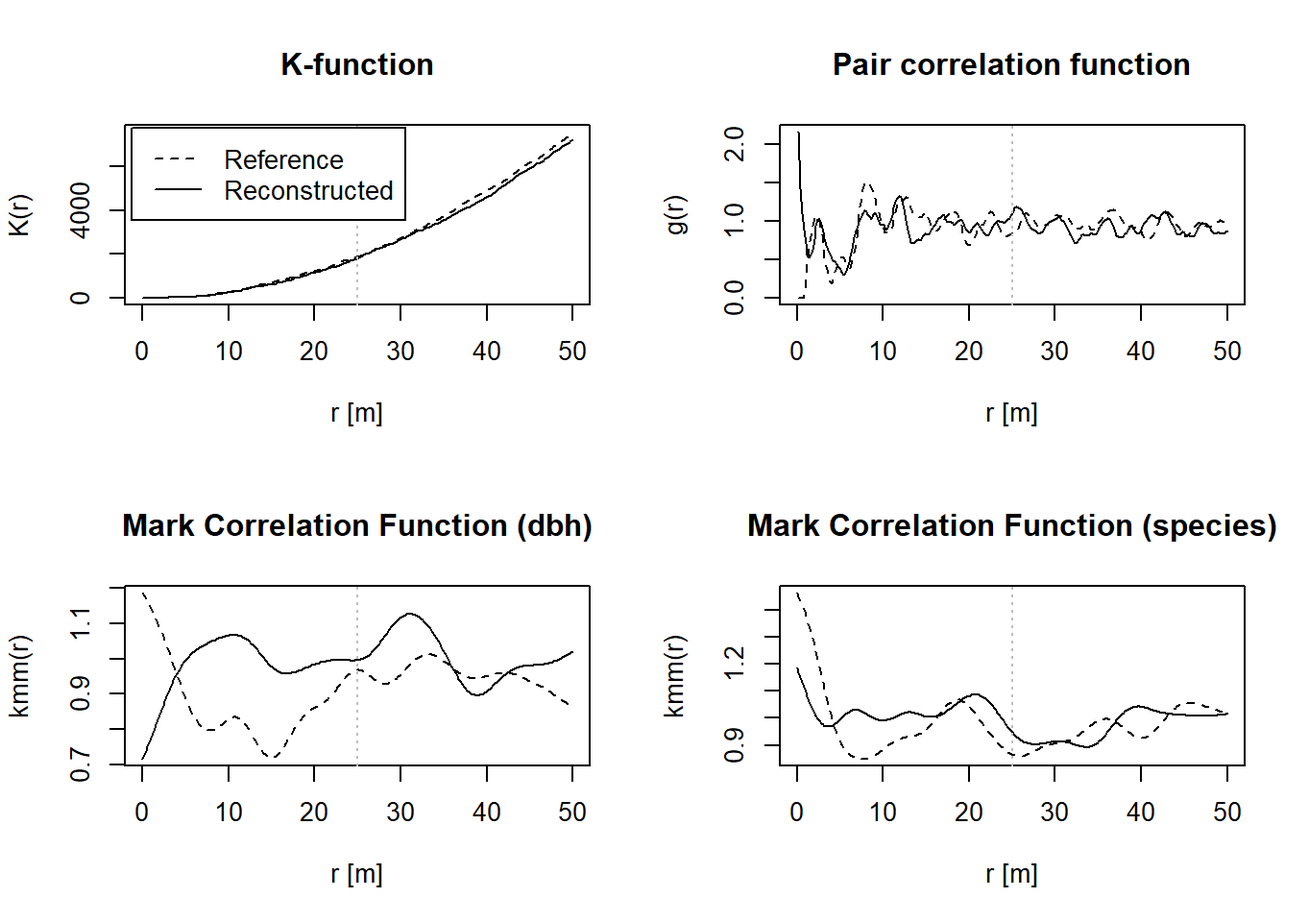
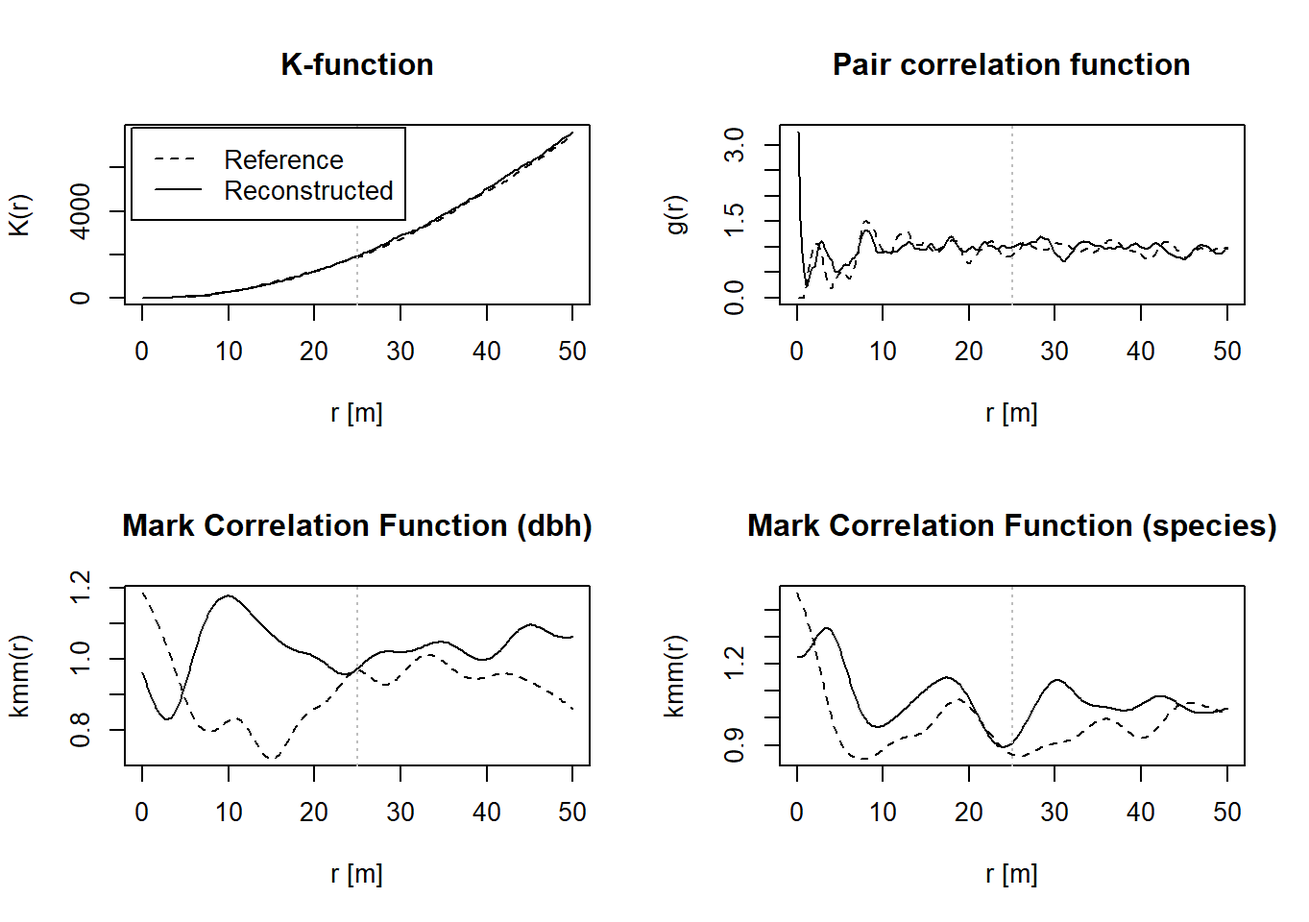
implementation of the new setp function

diff --git a/docs/simple_application_example.html b/docs/simple_application_example.html
@@ -208,15 +208,14 @@ pre > code.sourceCode > span > a:first-child::before { text-decoration: underlin
 
 <p>The following example demonstrates a simple application of <strong>M</strong>ulti-<strong>T</strong>rait <strong>P</strong>oint <strong>P</strong>attern <strong>R</strong>econstruction (MTPPR) presented in Wudel et al.&nbsp;(2023). It illustrates reconstruction using fictitious datasets that incorporate multiple traits simultaneously. The required libraries must be loaded beforehand.</p>
 <div class="cell">
-<div class="sourceCode cell-code" id="cb1"><pre class="sourceCode r code-with-copy"><code class="sourceCode r"><span id="cb1-1"><a href="#cb1-1" aria-hidden="true" tabindex="-1"></a><span class="fu">source</span>(<span class="st">"https://raw.githubusercontent.com/ChrisWudel/Multi-trait-point-pattern-reconstruction/main/func/reconstruct_pattern_multi.R"</span>)</span>
-<span id="cb1-2"><a href="#cb1-2" aria-hidden="true" tabindex="-1"></a><span class="fu">source</span>(<span class="st">"https://raw.githubusercontent.com/ChrisWudel/Multi-trait-point-pattern-reconstruction/main/func/compute_statistics.R"</span>)</span>
-<span id="cb1-3"><a href="#cb1-3" aria-hidden="true" tabindex="-1"></a><span class="fu">source</span>(<span class="st">"https://raw.githubusercontent.com/ChrisWudel/Multi-trait-point-pattern-reconstruction/main/func/dummy_transf.R"</span>)</span>
-<span id="cb1-4"><a href="#cb1-4" aria-hidden="true" tabindex="-1"></a><span class="fu">source</span>(<span class="st">"https://raw.githubusercontent.com/ChrisWudel/Multi-trait-point-pattern-reconstruction/main/func/energy_fun.R"</span>)</span>
-<span id="cb1-5"><a href="#cb1-5" aria-hidden="true" tabindex="-1"></a><span class="fu">source</span>(<span class="st">"https://raw.githubusercontent.com/ChrisWudel/Multi-trait-point-pattern-reconstruction/main/func/calc_moments.R"</span>)</span>
-<span id="cb1-6"><a href="#cb1-6" aria-hidden="true" tabindex="-1"></a><span class="fu">source</span>(<span class="st">"https://raw.githubusercontent.com/ChrisWudel/Multi-trait-point-pattern-reconstruction/main/func/select_kernel.R"</span>)</span>
-<span id="cb1-7"><a href="#cb1-7" aria-hidden="true" tabindex="-1"></a><span class="fu">source</span>(<span class="st">"https://raw.githubusercontent.com/ChrisWudel/Multi-trait-point-pattern-reconstruction/main/func/plot.rd_multi.R"</span>)</span>
-<span id="cb1-8"><a href="#cb1-8" aria-hidden="true" tabindex="-1"></a><span class="fu">source</span>(<span class="st">"https://raw.githubusercontent.com/ChrisWudel/Multi-trait-point-pattern-reconstruction/main/func/sample_points.R"</span>)</span>
-<span id="cb1-9"><a href="#cb1-9" aria-hidden="true" tabindex="-1"></a><span class="fu">library</span>(spatstat)</span></code><button title="Copy to Clipboard" class="code-copy-button"><i class="bi"></i></button></pre></div>
+<div class="sourceCode cell-code" id="cb1"><pre class="sourceCode r code-with-copy"><code class="sourceCode r"><span id="cb1-1"><a href="#cb1-1" aria-hidden="true" tabindex="-1"></a><span class="fu">source</span>(<span class="st">"https://raw.githubusercontent.com/ChrisWudel/Multi-trait-point-pattern-reconstruction/main/func/setup.R"</span>)</span>
+<span id="cb1-2"><a href="#cb1-2" aria-hidden="true" tabindex="-1"></a></span>
+<span id="cb1-3"><a href="#cb1-3" aria-hidden="true" tabindex="-1"></a><span class="fu">setup</span>(</span>
+<span id="cb1-4"><a href="#cb1-4" aria-hidden="true" tabindex="-1"></a>  <span class="at">packages =</span> <span class="fu">c</span>(<span class="st">"spatstat"</span>),</span>
+<span id="cb1-5"><a href="#cb1-5" aria-hidden="true" tabindex="-1"></a>  <span class="at">func_names =</span> <span class="fu">c</span>(<span class="st">"reconstruct_pattern_multi"</span>, <span class="st">"compute_statistics"</span>,</span>
+<span id="cb1-6"><a href="#cb1-6" aria-hidden="true" tabindex="-1"></a>                 <span class="st">"dummy_transf"</span>, <span class="st">"energy_fun"</span>, <span class="st">"calc_moments"</span>, <span class="st">"select_kernel"</span>, </span>
+<span id="cb1-7"><a href="#cb1-7" aria-hidden="true" tabindex="-1"></a>                 <span class="st">"plot.rd_multi"</span>, <span class="st">"sample_points"</span>)</span>
+<span id="cb1-8"><a href="#cb1-8" aria-hidden="true" tabindex="-1"></a>  )</span></code><button title="Copy to Clipboard" class="code-copy-button"><i class="bi"></i></button></pre></div>
 </div>
 <p>Please note that the maximum number of iterations has been set to <em>max_steps = 10000</em> and <em>n_repetitions = 3</em> in this example to keep computation time low. No weighting of different summary statistics has been performed, which may be necessary for different applications (e.g., forest stands) to achieve optimal results. For real-world applications, it is advisable to adjust these parameters accordingly. Additionally, in the vignette, <em>verbose = FALSE</em> has been set to minimize print output. We recommend using the default setting verbose = TRUE when running the code to see progress reports.</p>
 <p>The next step is to load the point pattern, here is an example of a random point pattern with several marks to show the structure of the data used.</p>
@@ -236,9 +235,9 @@ pre > code.sourceCode > span > a:first-child::before { text-decoration: underlin
 <div class="sourceCode cell-code" id="cb3"><pre class="sourceCode r code-with-copy"><code class="sourceCode r"><span id="cb3-1"><a href="#cb3-1" aria-hidden="true" tabindex="-1"></a>reconstruction <span class="ot">&lt;-</span> <span class="fu">reconstruct_pattern_multi</span>(marked_pattern, <span class="at">n_repetitions =</span> <span class="dv">1</span>, <span class="at">max_steps =</span> <span class="dv">10000</span>, <span class="at">issue =</span> <span class="dv">5000</span>, <span class="at">verbose =</span> <span class="cn">TRUE</span>)</span></code><button title="Copy to Clipboard" class="code-copy-button"><i class="bi"></i></button></pre></div>
 <div class="cell-output cell-output-stderr">
 <pre><code>
-&gt; Progress:  || iterations: 0 || Simulation progress: 0% || energy = 0.0895 || energy improvement = 0
-&gt; Progress:  || iterations: 5000 || Simulation progress: 50% || energy = 0.00138 || energy improvement = 298
-&gt; Progress:  || iterations: 10000 || Simulation progress: 100% || energy = 0.00135 || energy improvement = 477</code></pre>
+&gt; Progress:  || iterations: 0 || Simulation progress: 0% || energy = 0.10793 || energy improvement = 0
+&gt; Progress:  || iterations: 5000 || Simulation progress: 50% || energy = 0.00076 || energy improvement = 357
+&gt; Progress:  || iterations: 10000 || Simulation progress: 100% || energy = 0.00072 || energy improvement = 530</code></pre>
 </div>
 </div>
 <p>As a result, you will receive a list containing a variety of information, for example, the reference pattern, the reconstructed pattern, the number of successful actions, the energy development and much more. If you wish to perform several reconstructions of the same reference pattern, you must increase n_repetitions to the desired number.</p>
@@ -246,14 +245,14 @@ pre > code.sourceCode > span > a:first-child::before { text-decoration: underlin
 <div class="sourceCode cell-code" id="cb5"><pre class="sourceCode r code-with-copy"><code class="sourceCode r"><span id="cb5-1"><a href="#cb5-1" aria-hidden="true" tabindex="-1"></a>reconstruction_2 <span class="ot">&lt;-</span> <span class="fu">reconstruct_pattern_multi</span>(marked_pattern, <span class="at">n_repetitions =</span> <span class="dv">2</span>, <span class="at">max_steps =</span> <span class="dv">10000</span>, <span class="at">issue =</span> <span class="dv">5000</span>, <span class="at">verbose =</span> <span class="cn">TRUE</span>)</span></code><button title="Copy to Clipboard" class="code-copy-button"><i class="bi"></i></button></pre></div>
 <div class="cell-output cell-output-stderr">
 <pre><code>
-&gt; Progress: reconstruction_1 || iterations: 0 || Simulation progress: 0% || energy = 0.13654 || energy improvement = 0
-&gt; Progress: reconstruction_1 || iterations: 5000 || Simulation progress: 50% || energy = 0.00171 || energy improvement = 326
-&gt; Progress: reconstruction_1 || iterations: 10000 || Simulation progress: 100% || energy = 0.00167 || energy improvement = 520
+&gt; Progress: reconstruction_1 || iterations: 0 || Simulation progress: 0% || energy = 0.19684 || energy improvement = 0
+&gt; Progress: reconstruction_1 || iterations: 5000 || Simulation progress: 50% || energy = 0.00134 || energy improvement = 351
+&gt; Progress: reconstruction_1 || iterations: 10000 || Simulation progress: 100% || energy = 0.00129 || energy improvement = 512
 
 
-&gt; Progress: reconstruction_2 || iterations: 0 || Simulation progress: 0% || energy = 0.11497 || energy improvement = 0
-&gt; Progress: reconstruction_2 || iterations: 5000 || Simulation progress: 50% || energy = 0.00215 || energy improvement = 331
-&gt; Progress: reconstruction_2 || iterations: 10000 || Simulation progress: 100% || energy = 0.00211 || energy improvement = 512</code></pre>
+&gt; Progress: reconstruction_2 || iterations: 0 || Simulation progress: 0% || energy = 0.10089 || energy improvement = 0
+&gt; Progress: reconstruction_2 || iterations: 5000 || Simulation progress: 50% || energy = 0.002 || energy improvement = 313
+&gt; Progress: reconstruction_2 || iterations: 10000 || Simulation progress: 100% || energy = 0.00196 || energy improvement = 484</code></pre>
 </div>
 </div>
 <p>To activate a visualisation of the reconstruction that shows the changes in the pattern at the relevant time, you must proceed as follows.</p>
@@ -261,9 +260,9 @@ pre > code.sourceCode > span > a:first-child::before { text-decoration: underlin
 <div class="sourceCode cell-code" id="cb7"><pre class="sourceCode r code-with-copy"><code class="sourceCode r"><span id="cb7-1"><a href="#cb7-1" aria-hidden="true" tabindex="-1"></a>reconstruction_3 <span class="ot">&lt;-</span> <span class="fu">reconstruct_pattern_multi</span>(marked_pattern, <span class="at">n_repetitions =</span> <span class="dv">1</span>, <span class="at">max_steps =</span> <span class="dv">10000</span>, <span class="at">show_graphic =</span> <span class="cn">TRUE</span>, <span class="at">issue =</span> <span class="dv">5000</span>, <span class="at">verbose =</span> <span class="cn">TRUE</span>) </span></code><button title="Copy to Clipboard" class="code-copy-button"><i class="bi"></i></button></pre></div>
 <div class="cell-output cell-output-stderr">
 <pre><code>
-&gt; Progress:  || iterations: 0 || Simulation progress: 0% || energy = 0.08328 || energy improvement = 0
-&gt; Progress:  || iterations: 5000 || Simulation progress: 50% || energy = 0.00099 || energy improvement = 308
-&gt; Progress:  || iterations: 10000 || Simulation progress: 100% || energy = 0.00094 || energy improvement = 511</code></pre>
+&gt; Progress:  || iterations: 0 || Simulation progress: 0% || energy = 0.0563 || energy improvement = 0
+&gt; Progress:  || iterations: 5000 || Simulation progress: 50% || energy = 0.00295 || energy improvement = 339
+&gt; Progress:  || iterations: 10000 || Simulation progress: 100% || energy = 0.00291 || energy improvement = 534</code></pre>
 </div>
 <div class="cell-output-display">
 <div>

diff --git a/docs/further_application_examples.html b/docs/further_application_examples.html
@@ -209,21 +209,14 @@ pre > code.sourceCode > span > a:first-child::before { text-decoration: underlin
 <p>In the following, further examples of the simple application of <strong>M</strong>ulti-<strong>T</strong>rait <strong>P</strong>oint <strong>P</strong>attern <strong>R</strong>econstruction (MTPPR) presented in Wudel et al.&nbsp;(2023) are presented. These are standard applications, meaning that reconstructions are performed without enlargements or reductions of the reconstruction pattern and without edge correction.</p>
 <p>First, the necessary functions and packages will be loaded. If individual R packages are not installed, install them as follows: <code>install.packages("package name")</code>.</p>
 <div class="cell">
-<div class="sourceCode cell-code" id="cb1"><pre class="sourceCode r code-with-copy"><code class="sourceCode r"><span id="cb1-1"><a href="#cb1-1" aria-hidden="true" tabindex="-1"></a><span class="fu">source</span>(<span class="st">"https://raw.githubusercontent.com/ChrisWudel/Multi-trait-point-pattern-reconstruction/main/func/reconstruct_pattern_multi.R"</span>)</span>
-<span id="cb1-2"><a href="#cb1-2" aria-hidden="true" tabindex="-1"></a><span class="fu">source</span>(<span class="st">"https://raw.githubusercontent.com/ChrisWudel/Multi-trait-point-pattern-reconstruction/main/func/compute_statistics.R"</span>)</span>
-<span id="cb1-3"><a href="#cb1-3" aria-hidden="true" tabindex="-1"></a><span class="fu">source</span>(<span class="st">"https://raw.githubusercontent.com/ChrisWudel/Multi-trait-point-pattern-reconstruction/main/func/dummy_transf.R"</span>)</span>
-<span id="cb1-4"><a href="#cb1-4" aria-hidden="true" tabindex="-1"></a><span class="fu">source</span>(<span class="st">"https://raw.githubusercontent.com/ChrisWudel/Multi-trait-point-pattern-reconstruction/main/func/energy_fun.R"</span>)</span>
-<span id="cb1-5"><a href="#cb1-5" aria-hidden="true" tabindex="-1"></a><span class="fu">source</span>(<span class="st">"https://raw.githubusercontent.com/ChrisWudel/Multi-trait-point-pattern-reconstruction/main/func/calc_moments.R"</span>)</span>
-<span id="cb1-6"><a href="#cb1-6" aria-hidden="true" tabindex="-1"></a><span class="fu">source</span>(<span class="st">"https://raw.githubusercontent.com/ChrisWudel/Multi-trait-point-pattern-reconstruction/main/func/select_kernel.R"</span>)</span>
-<span id="cb1-7"><a href="#cb1-7" aria-hidden="true" tabindex="-1"></a><span class="fu">source</span>(<span class="st">"https://raw.githubusercontent.com/ChrisWudel/Multi-trait-point-pattern-reconstruction/main/func/plot.rd_multi.R"</span>)</span>
-<span id="cb1-8"><a href="#cb1-8" aria-hidden="true" tabindex="-1"></a><span class="fu">source</span>(<span class="st">"https://raw.githubusercontent.com/ChrisWudel/Multi-trait-point-pattern-reconstruction/main/func/sample_points.R"</span>)</span>
-<span id="cb1-9"><a href="#cb1-9" aria-hidden="true" tabindex="-1"></a></span>
-<span id="cb1-10"><a href="#cb1-10" aria-hidden="true" tabindex="-1"></a><span class="fu">source</span>(<span class="st">"https://raw.githubusercontent.com/ChrisWudel/Multi-trait-point-pattern-reconstruction/main/func/vis_patterns.R"</span>)</span>
-<span id="cb1-11"><a href="#cb1-11" aria-hidden="true" tabindex="-1"></a><span class="fu">source</span>(<span class="st">"https://raw.githubusercontent.com/ChrisWudel/Multi-trait-point-pattern-reconstruction/main/func/select_data.R"</span>)</span>
-<span id="cb1-12"><a href="#cb1-12" aria-hidden="true" tabindex="-1"></a></span>
-<span id="cb1-13"><a href="#cb1-13" aria-hidden="true" tabindex="-1"></a><span class="fu">library</span>(spatstat)</span>
-<span id="cb1-14"><a href="#cb1-14" aria-hidden="true" tabindex="-1"></a><span class="fu">library</span>(ggplot2)</span>
-<span id="cb1-15"><a href="#cb1-15" aria-hidden="true" tabindex="-1"></a><span class="fu">library</span>(patchwork)</span></code><button title="Copy to Clipboard" class="code-copy-button"><i class="bi"></i></button></pre></div>
+<div class="sourceCode cell-code" id="cb1"><pre class="sourceCode r code-with-copy"><code class="sourceCode r"><span id="cb1-1"><a href="#cb1-1" aria-hidden="true" tabindex="-1"></a><span class="fu">source</span>(<span class="st">"https://raw.githubusercontent.com/ChrisWudel/Multi-trait-point-pattern-reconstruction/main/func/setup.R"</span>)</span>
+<span id="cb1-2"><a href="#cb1-2" aria-hidden="true" tabindex="-1"></a></span>
+<span id="cb1-3"><a href="#cb1-3" aria-hidden="true" tabindex="-1"></a><span class="fu">setup</span>(</span>
+<span id="cb1-4"><a href="#cb1-4" aria-hidden="true" tabindex="-1"></a>  <span class="at">packages =</span> <span class="fu">c</span>(<span class="st">"spatstat"</span>, <span class="st">"ggplot2"</span>, <span class="st">"patchwork"</span>),</span>
+<span id="cb1-5"><a href="#cb1-5" aria-hidden="true" tabindex="-1"></a>  <span class="at">func_names =</span> <span class="fu">c</span>(<span class="st">"reconstruct_pattern_multi"</span>, <span class="st">"compute_statistics"</span>,</span>
+<span id="cb1-6"><a href="#cb1-6" aria-hidden="true" tabindex="-1"></a>                 <span class="st">"dummy_transf"</span>, <span class="st">"energy_fun"</span>, <span class="st">"calc_moments"</span>, <span class="st">"select_kernel"</span>, </span>
+<span id="cb1-7"><a href="#cb1-7" aria-hidden="true" tabindex="-1"></a>                 <span class="st">"plot.rd_multi"</span>, <span class="st">"sample_points"</span>, <span class="st">"vis_patterns"</span>, <span class="st">"select_data"</span>)</span>
+<span id="cb1-8"><a href="#cb1-8" aria-hidden="true" tabindex="-1"></a>  )</span></code><button title="Copy to Clipboard" class="code-copy-button"><i class="bi"></i></button></pre></div>
 </div>
 <p>Now you need to define which dataset you want to use. There are 2 real datasets and 4 generated datasets available. To select a dataset, define <em>x</em> with the name of the dataset you want to use (<em>x &lt;- ‘Dataset Name’</em>). The datasets are available under ’Records for download.</p>
 <div class="cell">
@@ -276,6 +269,9 @@ pre > code.sourceCode > span > a:first-child::before { text-decoration: underlin
 <p>As a result, you will receive a list with a variety of information, such as the reference pattern, the reconstructed pattern, the number of successful actions, the energy development, and much more. To illustrate the results, first compare the reference pattern with the reconstructed pattern.</p>
 <div class="cell">
 <div class="sourceCode cell-code" id="cb4"><pre class="sourceCode r code-with-copy"><code class="sourceCode r"><span id="cb4-1"><a href="#cb4-1" aria-hidden="true" tabindex="-1"></a><span class="fu">vis_pp</span>(reconstruction) </span></code><button title="Copy to Clipboard" class="code-copy-button"><i class="bi"></i></button></pre></div>
+<div class="cell-output cell-output-stdout">
+<pre><code>[1] "look under Plots to see the result."</code></pre>
+</div>
 <div class="cell-output-display">
 <div>
 <figure class="figure">
@@ -286,7 +282,7 @@ pre > code.sourceCode > span > a:first-child::before { text-decoration: underlin
 </div>
 <p>Finally, you can use the following function to compare various summary statistics of the reference pattern (black line) with the reconstructed pattern (grey line). Another function (plot_sum_stat) is capable of displaying these summary statistics in a single diagram for multiple repetitions of the reconstructions (n_repetitions &gt; 1), and it is used in the previously mentioned application file (Application of the Multi-trait Point pattern reconstruction.R). For simplicity, this functionality has been omitted here.</p>
 <div class="cell">
-<div class="sourceCode cell-code" id="cb5"><pre class="sourceCode r code-with-copy"><code class="sourceCode r"><span id="cb5-1"><a href="#cb5-1" aria-hidden="true" tabindex="-1"></a><span class="fu">plot</span>(reconstruction)</span></code><button title="Copy to Clipboard" class="code-copy-button"><i class="bi"></i></button></pre></div>
+<div class="sourceCode cell-code" id="cb6"><pre class="sourceCode r code-with-copy"><code class="sourceCode r"><span id="cb6-1"><a href="#cb6-1" aria-hidden="true" tabindex="-1"></a><span class="fu">plot</span>(reconstruction)</span></code><button title="Copy to Clipboard" class="code-copy-button"><i class="bi"></i></button></pre></div>
 <div class="cell-output-display">
 <div>
 <figure class="figure">

diff --git a/docs/specialized_application.html b/docs/specialized_application.html
@@ -211,20 +211,14 @@ pre > code.sourceCode > span > a:first-child::before { text-decoration: underlin
 <p><em><strong>Figure:</strong> Conceptual presentation of the new innovative workflow for data acquisition and reconstruction of forest regeneration (LiDAR = Light Detection and Ranging). a) Recording regeneration on a small area and b) recording of the upper stand trees at the whole forest area.</em></p>
 <p>The following code can be used to execute the workflow using an available dataset. First, the necessary functions and packages are loaded.</p>
 <div class="cell">
-<div class="sourceCode cell-code" id="cb1"><pre class="sourceCode r code-with-copy"><code class="sourceCode r"><span id="cb1-1"><a href="#cb1-1" aria-hidden="true" tabindex="-1"></a><span class="fu">source</span>(<span class="st">"https://raw.githubusercontent.com/ChrisWudel/Multi-trait-point-pattern-reconstruction/main/func/reconstruct_pattern_multi.R"</span>)</span>
-<span id="cb1-2"><a href="#cb1-2" aria-hidden="true" tabindex="-1"></a><span class="fu">source</span>(<span class="st">"https://raw.githubusercontent.com/ChrisWudel/Multi-trait-point-pattern-reconstruction/main/func/compute_statistics.R"</span>)</span>
-<span id="cb1-3"><a href="#cb1-3" aria-hidden="true" tabindex="-1"></a><span class="fu">source</span>(<span class="st">"https://raw.githubusercontent.com/ChrisWudel/Multi-trait-point-pattern-reconstruction/main/func/dummy_transf.R"</span>)</span>
-<span id="cb1-4"><a href="#cb1-4" aria-hidden="true" tabindex="-1"></a><span class="fu">source</span>(<span class="st">"https://raw.githubusercontent.com/ChrisWudel/Multi-trait-point-pattern-reconstruction/main/func/energy_fun.R"</span>)</span>
-<span id="cb1-5"><a href="#cb1-5" aria-hidden="true" tabindex="-1"></a><span class="fu">source</span>(<span class="st">"https://raw.githubusercontent.com/ChrisWudel/Multi-trait-point-pattern-reconstruction/main/func/calc_moments.R"</span>)</span>
-<span id="cb1-6"><a href="#cb1-6" aria-hidden="true" tabindex="-1"></a><span class="fu">source</span>(<span class="st">"https://raw.githubusercontent.com/ChrisWudel/Multi-trait-point-pattern-reconstruction/main/func/select_kernel.R"</span>)</span>
-<span id="cb1-7"><a href="#cb1-7" aria-hidden="true" tabindex="-1"></a><span class="fu">source</span>(<span class="st">"https://raw.githubusercontent.com/ChrisWudel/Multi-trait-point-pattern-reconstruction/main/func/plot.rd_multi.R"</span>)</span>
-<span id="cb1-8"><a href="#cb1-8" aria-hidden="true" tabindex="-1"></a><span class="fu">source</span>(<span class="st">"https://raw.githubusercontent.com/ChrisWudel/Multi-trait-point-pattern-reconstruction/main/func/sample_points.R"</span>)</span>
-<span id="cb1-9"><a href="#cb1-9" aria-hidden="true" tabindex="-1"></a><span class="fu">source</span>(<span class="st">"https://raw.githubusercontent.com/ChrisWudel/Multi-trait-point-pattern-reconstruction/main/func/edge_correction.R"</span>)</span>
-<span id="cb1-10"><a href="#cb1-10" aria-hidden="true" tabindex="-1"></a></span>
-<span id="cb1-11"><a href="#cb1-11" aria-hidden="true" tabindex="-1"></a><span class="fu">source</span>(<span class="st">"https://raw.githubusercontent.com/ChrisWudel/Multi-trait-point-pattern-reconstruction/main/func/vis_patterns.R"</span>)</span>
-<span id="cb1-12"><a href="#cb1-12" aria-hidden="true" tabindex="-1"></a></span>
-<span id="cb1-13"><a href="#cb1-13" aria-hidden="true" tabindex="-1"></a><span class="fu">library</span>(spatstat)</span>
-<span id="cb1-14"><a href="#cb1-14" aria-hidden="true" tabindex="-1"></a><span class="fu">library</span>(ggplot2)</span></code><button title="Copy to Clipboard" class="code-copy-button"><i class="bi"></i></button></pre></div>
+<div class="sourceCode cell-code" id="cb1"><pre class="sourceCode r code-with-copy"><code class="sourceCode r"><span id="cb1-1"><a href="#cb1-1" aria-hidden="true" tabindex="-1"></a><span class="fu">source</span>(<span class="st">"https://raw.githubusercontent.com/ChrisWudel/Multi-trait-point-pattern-reconstruction/main/func/setup.R"</span>)</span>
+<span id="cb1-2"><a href="#cb1-2" aria-hidden="true" tabindex="-1"></a></span>
+<span id="cb1-3"><a href="#cb1-3" aria-hidden="true" tabindex="-1"></a><span class="fu">setup</span>(</span>
+<span id="cb1-4"><a href="#cb1-4" aria-hidden="true" tabindex="-1"></a>  <span class="at">packages =</span> <span class="fu">c</span>(<span class="st">"spatstat"</span>, <span class="st">"ggplot2"</span>),</span>
+<span id="cb1-5"><a href="#cb1-5" aria-hidden="true" tabindex="-1"></a>  <span class="at">func_names =</span> <span class="fu">c</span>(<span class="st">"reconstruct_pattern_multi"</span>, <span class="st">"compute_statistics"</span>,</span>
+<span id="cb1-6"><a href="#cb1-6" aria-hidden="true" tabindex="-1"></a>                 <span class="st">"dummy_transf"</span>, <span class="st">"energy_fun"</span>, <span class="st">"calc_moments"</span>, <span class="st">"select_kernel"</span>, </span>
+<span id="cb1-7"><a href="#cb1-7" aria-hidden="true" tabindex="-1"></a>                 <span class="st">"plot.rd_multi"</span>, <span class="st">"sample_points"</span>, <span class="st">"edge_correction"</span>, <span class="st">"vis_patterns"</span>)</span>
+<span id="cb1-8"><a href="#cb1-8" aria-hidden="true" tabindex="-1"></a>  )</span></code><button title="Copy to Clipboard" class="code-copy-button"><i class="bi"></i></button></pre></div>
 </div>
 <p>Subsequently, the dataset is retrieved from the ‘Records’ folder on GitHub and published and freely available at the following link: <a href="https://zenodo.org/records/10550778" class="uri">https://zenodo.org/records/10550778</a> (Meyer and Wudel, 2024).</p>
 <div class="cell">
@@ -271,9 +265,9 @@ pre > code.sourceCode > span > a:first-child::before { text-decoration: underlin
 <span id="cb3-35"><a href="#cb3-35" aria-hidden="true" tabindex="-1"></a><span class="at">verbose           =</span> <span class="cn">TRUE</span>) </span></code><button title="Copy to Clipboard" class="code-copy-button"><i class="bi"></i></button></pre></div>
 <div class="cell-output cell-output-stderr">
 <pre><code>
-&gt; Progress:  || iterations: 0 || Simulation progress: 0% || energy = 37661.73293 || energy improvement = 0
-&gt; Progress:  || iterations: 5000 || Simulation progress: 50% || energy = 11668.098 || energy improvement = 72
-&gt; Progress:  || iterations: 10000 || Simulation progress: 100% || energy = 5203.89483 || energy improvement = 82</code></pre>
+&gt; Progress:  || iterations: 0 || Simulation progress: 0% || energy = 33372.38421 || energy improvement = 0
+&gt; Progress:  || iterations: 5000 || Simulation progress: 50% || energy = 15080.0409 || energy improvement = 58
+&gt; Progress:  || iterations: 10000 || Simulation progress: 100% || energy = 4385.64847 || energy improvement = 77</code></pre>
 </div>
 </div>
 <p>The following figure shows the results of the workflow, which are from an example not derived from the current run. The figure has been created retroactively and is not generated by the function provided. Additionally, in this simulation, significantly more simulation steps were conducted, which would take too long to render for this handbook.</p>
